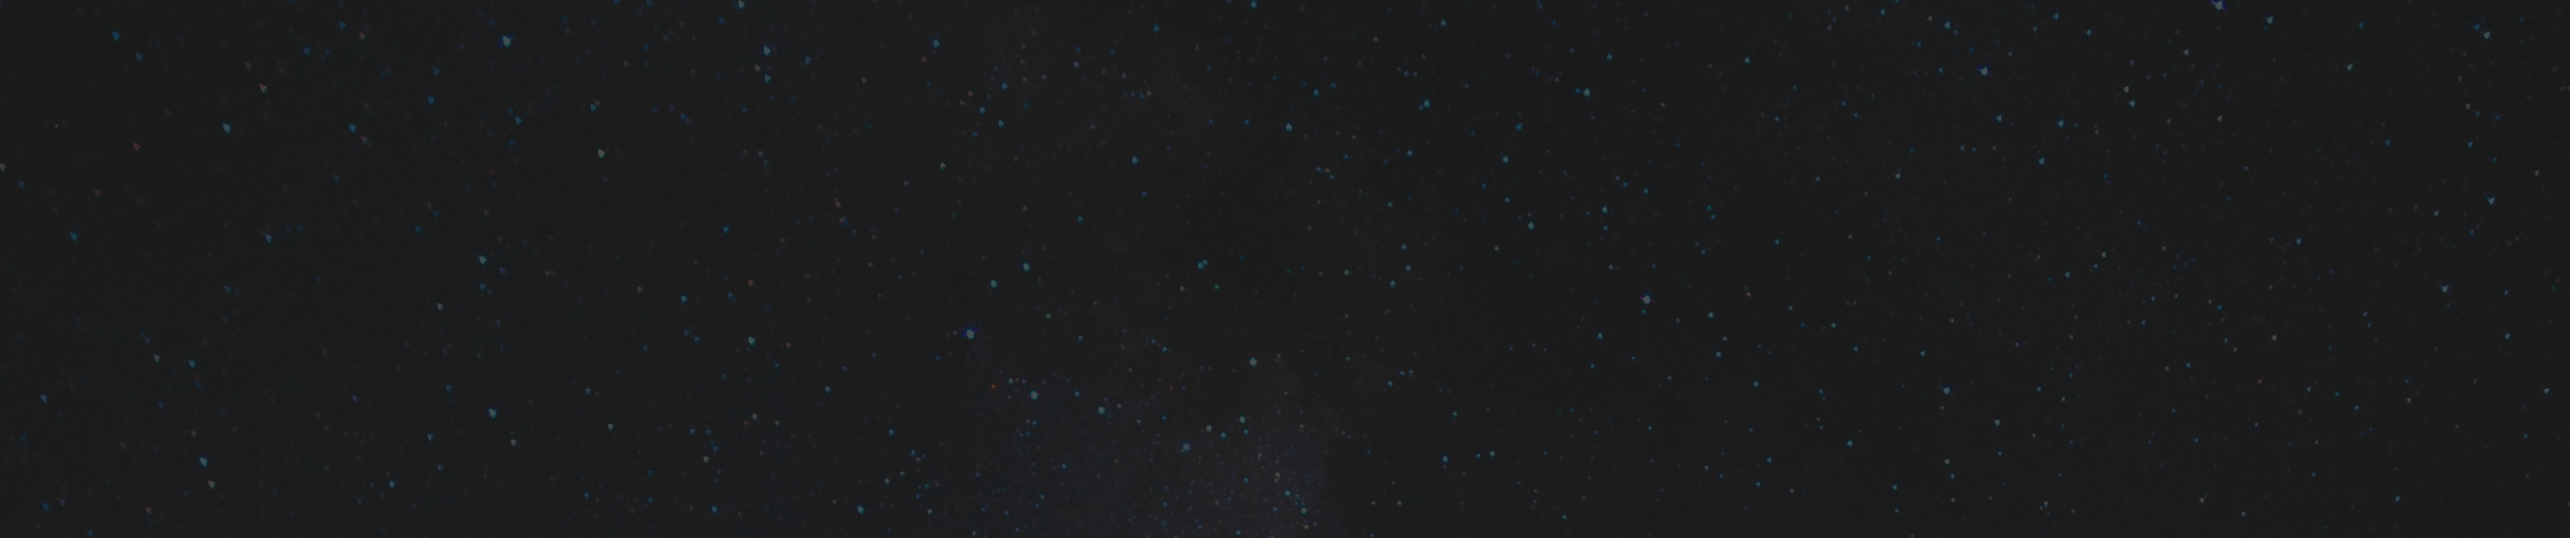
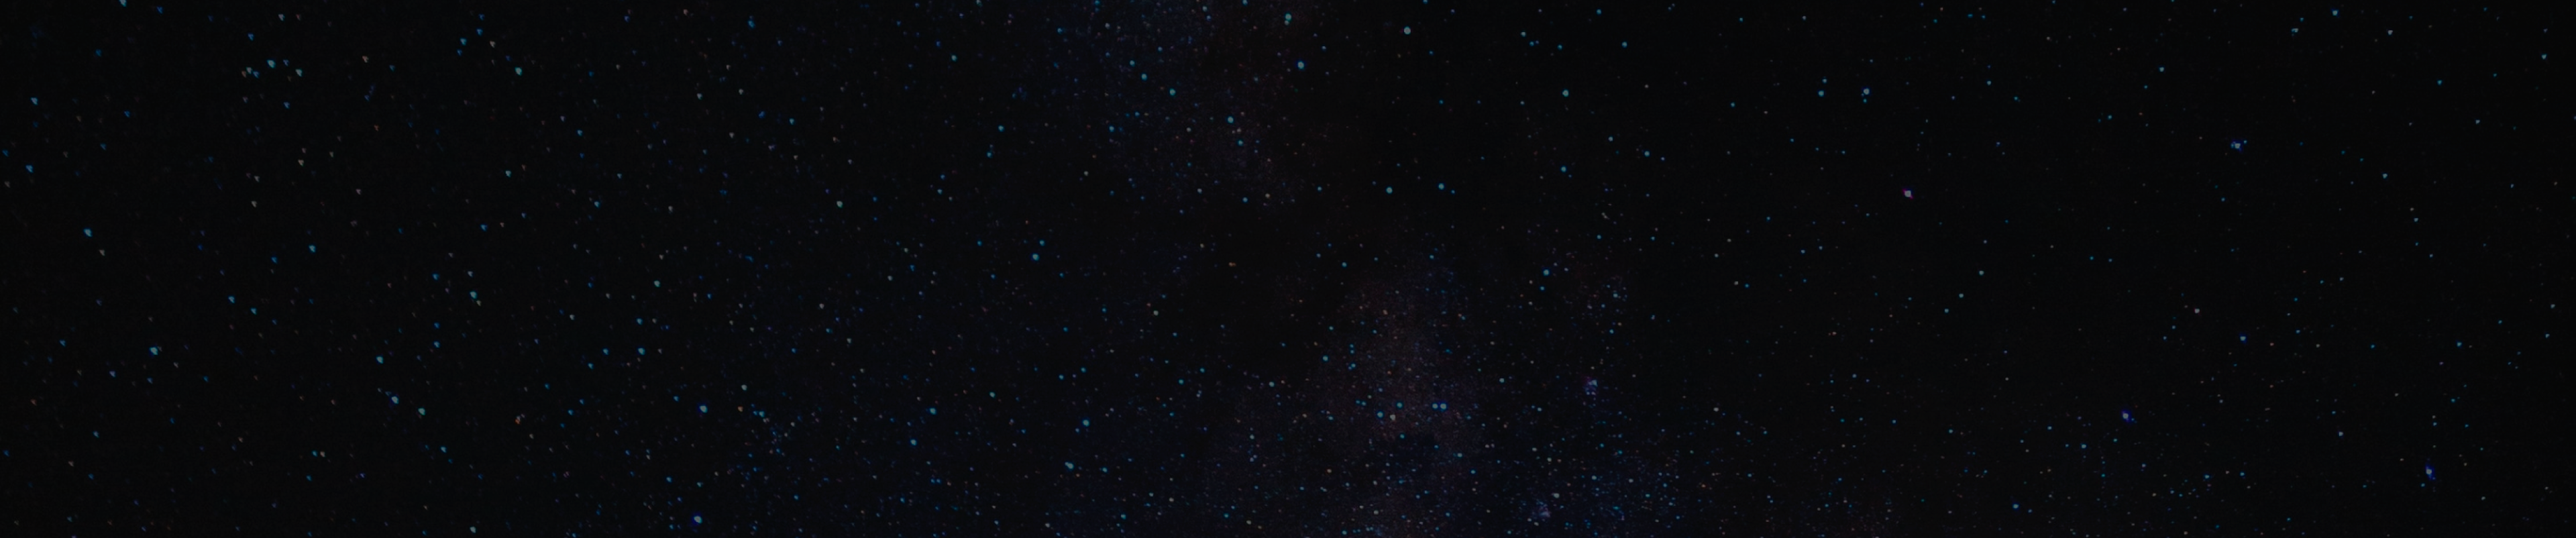
Fix footer (#10)
* change background

* change grid to flexbox

* fix breakpoints

diff --git a/src/components/footer/Footer.tsx b/src/components/footer/Footer.tsx
@@ -18,29 +18,31 @@ export default function Footer(props: ISelfProps) {
     return(
         <footer className={styles.footerContainer}>
             <img src={footerBackground} alt="footer background" className={styles.footerBackground}/>
-            <div className={styles.footerNavWrapper}>
-                <div className={styles.footerNav}>
-                    {props.menuItems.map(item => <NavBarItem item={item} />)}
-                </div>
-                <div className={styles.footerDivider}></div>
-            </div>
-            <div className={styles.footerContent}>
-                <IconLogo size={{ width: 232, height: 84 }} onClick={() => window.location.href = window.appContext.baseUrl}/>
+            <div className={styles.footerWrapper}>
                 <div>
-                    <div className={styles.footerContentText}>
-                        {__('footer.mailUs')}
+                    <div className={styles.footerNav}>
+                        {props.menuItems.map(item => <NavBarItem item={item} />)}
                     </div>
-                    <div className={styles.footerMailText} onClick={() => window.location.href = 'mailto:pwrinspace@pwr.edu.pl'}>
-                        pwrinspace@pwr.edu.pl
+                    <div className={styles.footerDivider}></div>
+                </div>
+                <div className={styles.footerContent}>
+                    <IconLogo size={{ width: 232, height: 84 }} onClick={() => window.location.href = window.appContext.baseUrl}/>
+                    <div>
+                        <div className={styles.footerContentText}>
+                            {__('footer.mailUs')}
+                        </div>
+                        <div className={styles.footerMailText} onClick={() => window.location.href = 'mailto:pwrinspace@pwr.edu.pl'}>
+                            pwrinspace@pwr.edu.pl
+                        </div>
                     </div>
                 </div>
-            </div>
-            <div className={styles.footerSocialWrapper}>
-                <FacebookIcon onClick={() => window.location.href = 'https://www.facebook.com/pwrinspace'} color={{ primaryColor: 'black', secondaryColor: 'white' }}/>
-                <InstagramIcon onClick={() => window.location.href = 'https://www.instagram.com/poliwrocket/'} color={{ primaryColor: 'black', secondaryColor: 'white' }}/>
-                <TikTokIcon onClick={() => window.location.href = 'https://www.tiktok.com/@poliwrocket'}/>
-                <YouTubeIcon onClick={() => window.location.href = 'https://www.youtube.com/@poliwrocket1294'}/>
-                <LinkedInIcon onClick={() => window.location.href = 'https://www.linkedin.com/company/pwr-in-space/'}/>
+                <div className={styles.footerSocialWrapper}>
+                    <FacebookIcon onClick={() => window.location.href = 'https://www.facebook.com/pwrinspace'} color={{ primaryColor: 'black', secondaryColor: 'white' }}/>
+                    <InstagramIcon onClick={() => window.location.href = 'https://www.instagram.com/poliwrocket/'} color={{ primaryColor: 'black', secondaryColor: 'white' }}/>
+                    <TikTokIcon onClick={() => window.location.href = 'https://www.tiktok.com/@poliwrocket'}/>
+                    <YouTubeIcon onClick={() => window.location.href = 'https://www.youtube.com/@poliwrocket1294'}/>
+                    <LinkedInIcon onClick={() => window.location.href = 'https://www.linkedin.com/company/pwr-in-space/'}/>
+                </div>
             </div>
         </footer>
     );

diff --git a/src/components/footer/assets/footer.module.scss b/src/components/footer/assets/footer.module.scss
@@ -4,11 +4,18 @@
 .footerContainer {
   display: grid;
   grid-template-columns: 20% 60% 20%;
-  grid-template-rows: 30% 50% 20%;
   height: 300px;
 
   @include breakpoint-xl {
-    height: 520px;
+    height: 400px;
+  }
+
+  @include breakpoint-lg {
+    grid-template-columns: 10% 80% 10%;
+  }
+
+  @include breakpoint-md {
+    height: 550px;
   }
 
   .footerBackground {
@@ -16,16 +23,24 @@
     height: 300px;
     width: 100%;
     grid-column: 1 / 4;
-    grid-row: 1 / 4;
     z-index: -5;
 
     @include breakpoint-xl {
-      height: 520px;
+      height: 400px;
+    }
+
+    @include breakpoint-md {
+      height: 550px;
     }
   }
 
-  .footerNavWrapper {
+  .footerWrapper {
+    display: flex;
+    flex-direction: column;
+    justify-content: space-between;
+    align-items: center;
     grid-column: 2 / 3;
+    width: 100%;
 
     .footerNav {
       display: flex;
@@ -33,7 +48,6 @@
       align-items: center;
       margin-top: 32px;
       flex-wrap: wrap;
-      grid-row: 1 / 2;
 
       * > a {
         margin: 0 15px 0 15px;
@@ -49,69 +63,70 @@
     .footerDivider {
       margin: 20px 20px 0 20px;
       border: 0.5px solid #FFF;
-      grid-row: 1 / 2;
-    }
-  }
-
-  .footerContent {
-    grid-column: 2 / 3;
-    grid-row: 2 / 3;
-    display: flex;
-    justify-content: space-around;
-    align-content: center;
-    align-items: center;
-    height: 100%;
-
-    @include breakpoint-xl {
-      flex-flow: column;
-      margin-top: 30px;
     }
 
-    .footerContentText {
-      font-family: $alata;
-      font-size: 1.25rem;
-      letter-spacing: 0.33rem;
-      color: #FFF;
+    .footerContent {
+      display: flex;
+      justify-content: space-around;
+      align-content: center;
+      align-items: center;
+      width: 100%;
+
+      @include breakpoint-md {
+        flex-flow: column;
+        gap: 20px;
+      }
+
+      .footerContentText {
+        margin-top: 20px;
+        font-family: $alata;
+        font-size: 1.25rem;
+        letter-spacing: 0.33rem;
+        color: #FFFFFF;
+
+        @include breakpoint-sm {
+          font-size: 1rem;
+        }
+      }
+
+      .footerMailText {
+        margin-top: 20px;
+        font-family: $beVietnamPro;
+        font-size: 1.25rem;
+        letter-spacing: 0.3rem;
+        font-weight: bold;
+        color: #FFFFFF;
+
+        @include breakpoint-sm {
+          font-size: 1rem;
+        }
+      }
+
+      .footerMailText:hover {
+        cursor: pointer;
+        opacity: 0.7;
+      }
+
+      svg:hover {
+        cursor: pointer;
+      }
     }
 
-    .footerMailText {
-      margin-top: 20px;
-      font-family: $beVietnamPro;
-      font-size: 1.25rem;
-      letter-spacing: 0.3rem;
-      font-weight: bold;
-      color: #FFF;
-    }
+    .footerSocialWrapper {
+      display: flex;
+      justify-content: center;
+      align-items: center;
+      margin-bottom: 20px;
 
-    .footerMailText:hover {
-      cursor: pointer;
-      opacity: 0.7;
-    }
+      svg {
+        margin: 0 10px 0 10px;
+        opacity: 0.7;
+      }
 
-    svg:hover {
-      cursor: pointer;
-    }
-  }
-
-  .footerSocialWrapper {
-    grid-column: 2 / 3;
-    grid-row: 3 / 4;
-    display: flex;
-    justify-content: center;
-    align-items: center;
-
-    @include breakpoint-xl {
-      margin-top: 50px;
-    }
-
-    svg {
-      margin: 0 10px 0 10px;
-      opacity: 0.7;
-    }
-
-    svg:hover {
-      opacity: 1;
-      cursor: pointer;
+      svg:hover {
+        opacity: 1;
+        cursor: pointer;
+      }
     }
   }
 }

diff --git a/src/components/footer/assets/footer.module.scss.d.ts b/src/components/footer/assets/footer.module.scss.d.ts
@@ -5,12 +5,12 @@ declare const classNames: {
   readonly alegreyasans: "alegreyasans";
   readonly footerContainer: "footerContainer";
   readonly footerBackground: "footerBackground";
-  readonly footerNavWrapper: "footerNavWrapper";
+  readonly footerWrapper: "footerWrapper";
   readonly footerNav: "footerNav";
   readonly footerContent: "footerContent";
-  readonly footerSocialWrapper: "footerSocialWrapper";
   readonly footerDivider: "footerDivider";
   readonly footerContentText: "footerContentText";
   readonly footerMailText: "footerMailText";
+  readonly footerSocialWrapper: "footerSocialWrapper";
 };
 export = classNames;
